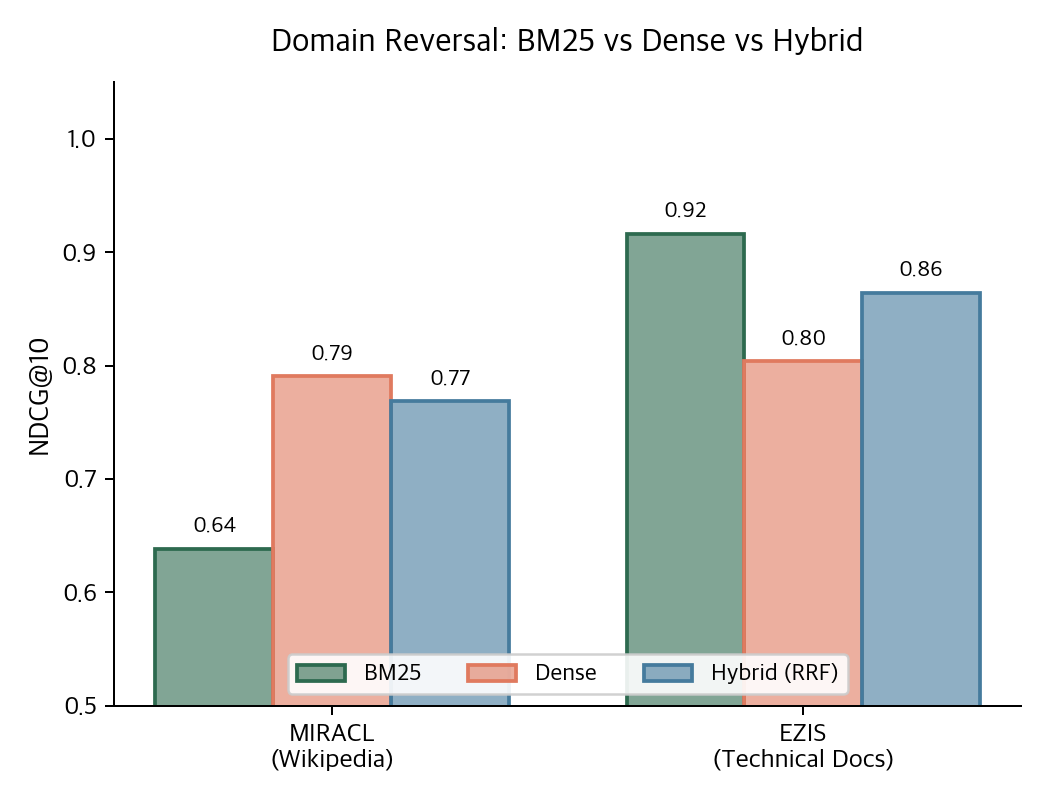
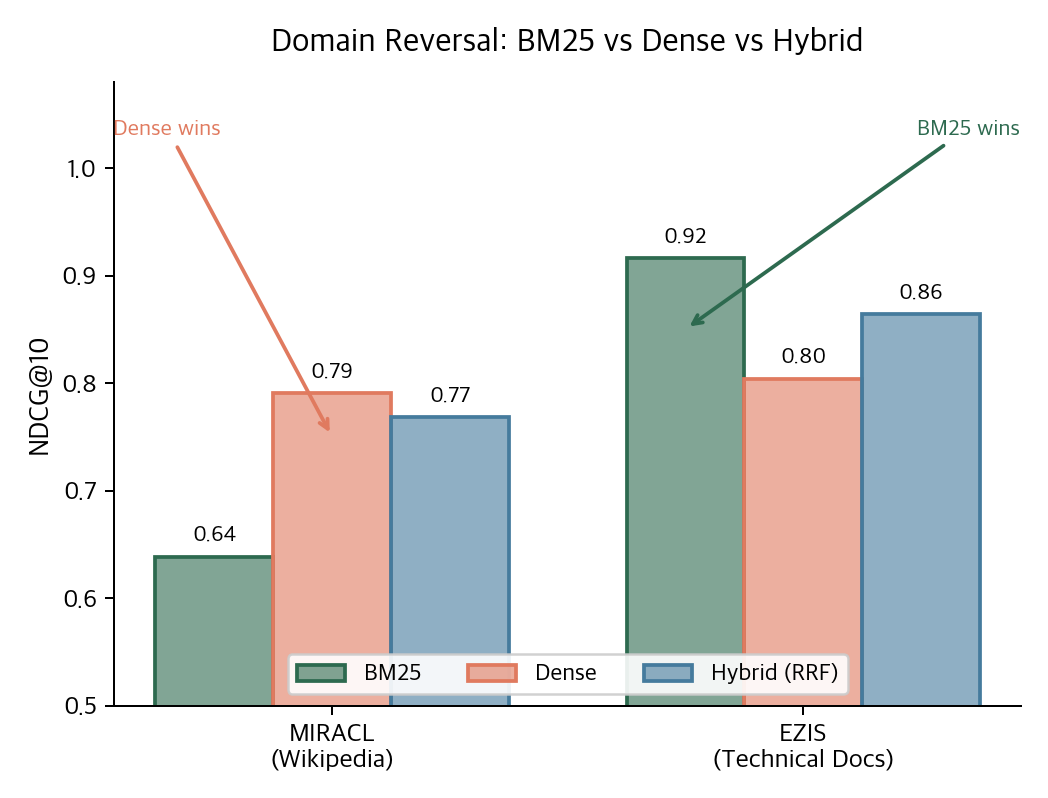
fix(charts): improve domain_reversal arrow positions

diff --git a/docs/images/generate_charts.py b/docs/images/generate_charts.py
@@ -169,10 +169,18 @@ def chart_domain_reversal():
             ax.text(bar.get_x() + bar.get_width()/2, h + 0.012, f'{h:.2f}',
                     ha='center', va='bottom', fontsize=9, fontweight='bold')
 
+    # 화살표 주석: MIRACL에서 Dense가 이기고, EZIS에서 BM25가 이긴다
+    ax.annotate('Dense wins', xy=(0, 0.75), fontsize=9, ha='center',
+                color=C_DENSE, fontweight='bold',
+                xytext=(-0.35, 1.03), arrowprops=dict(arrowstyle='->', color=C_DENSE, lw=1.5))
+    ax.annotate('BM25 wins', xy=(1 - w, 0.85), fontsize=9, ha='center',
+                color=C_BM25, fontweight='bold',
+                xytext=(1.35, 1.03), arrowprops=dict(arrowstyle='->', color=C_BM25, lw=1.5))
+
     ax.set_ylabel('NDCG@10', fontsize=11)
     ax.set_xticks(x)
     ax.set_xticklabels(datasets, fontsize=10.5)
-    ax.set_ylim(0.5, 1.05)
+    ax.set_ylim(0.5, 1.08)
     ax.legend(loc='lower center', fontsize=9.5, framealpha=0.9, ncol=3)
     ax.set_title('Domain Reversal: BM25 vs Dense vs Hybrid', fontsize=13, fontweight='bold', pad=12)
 
